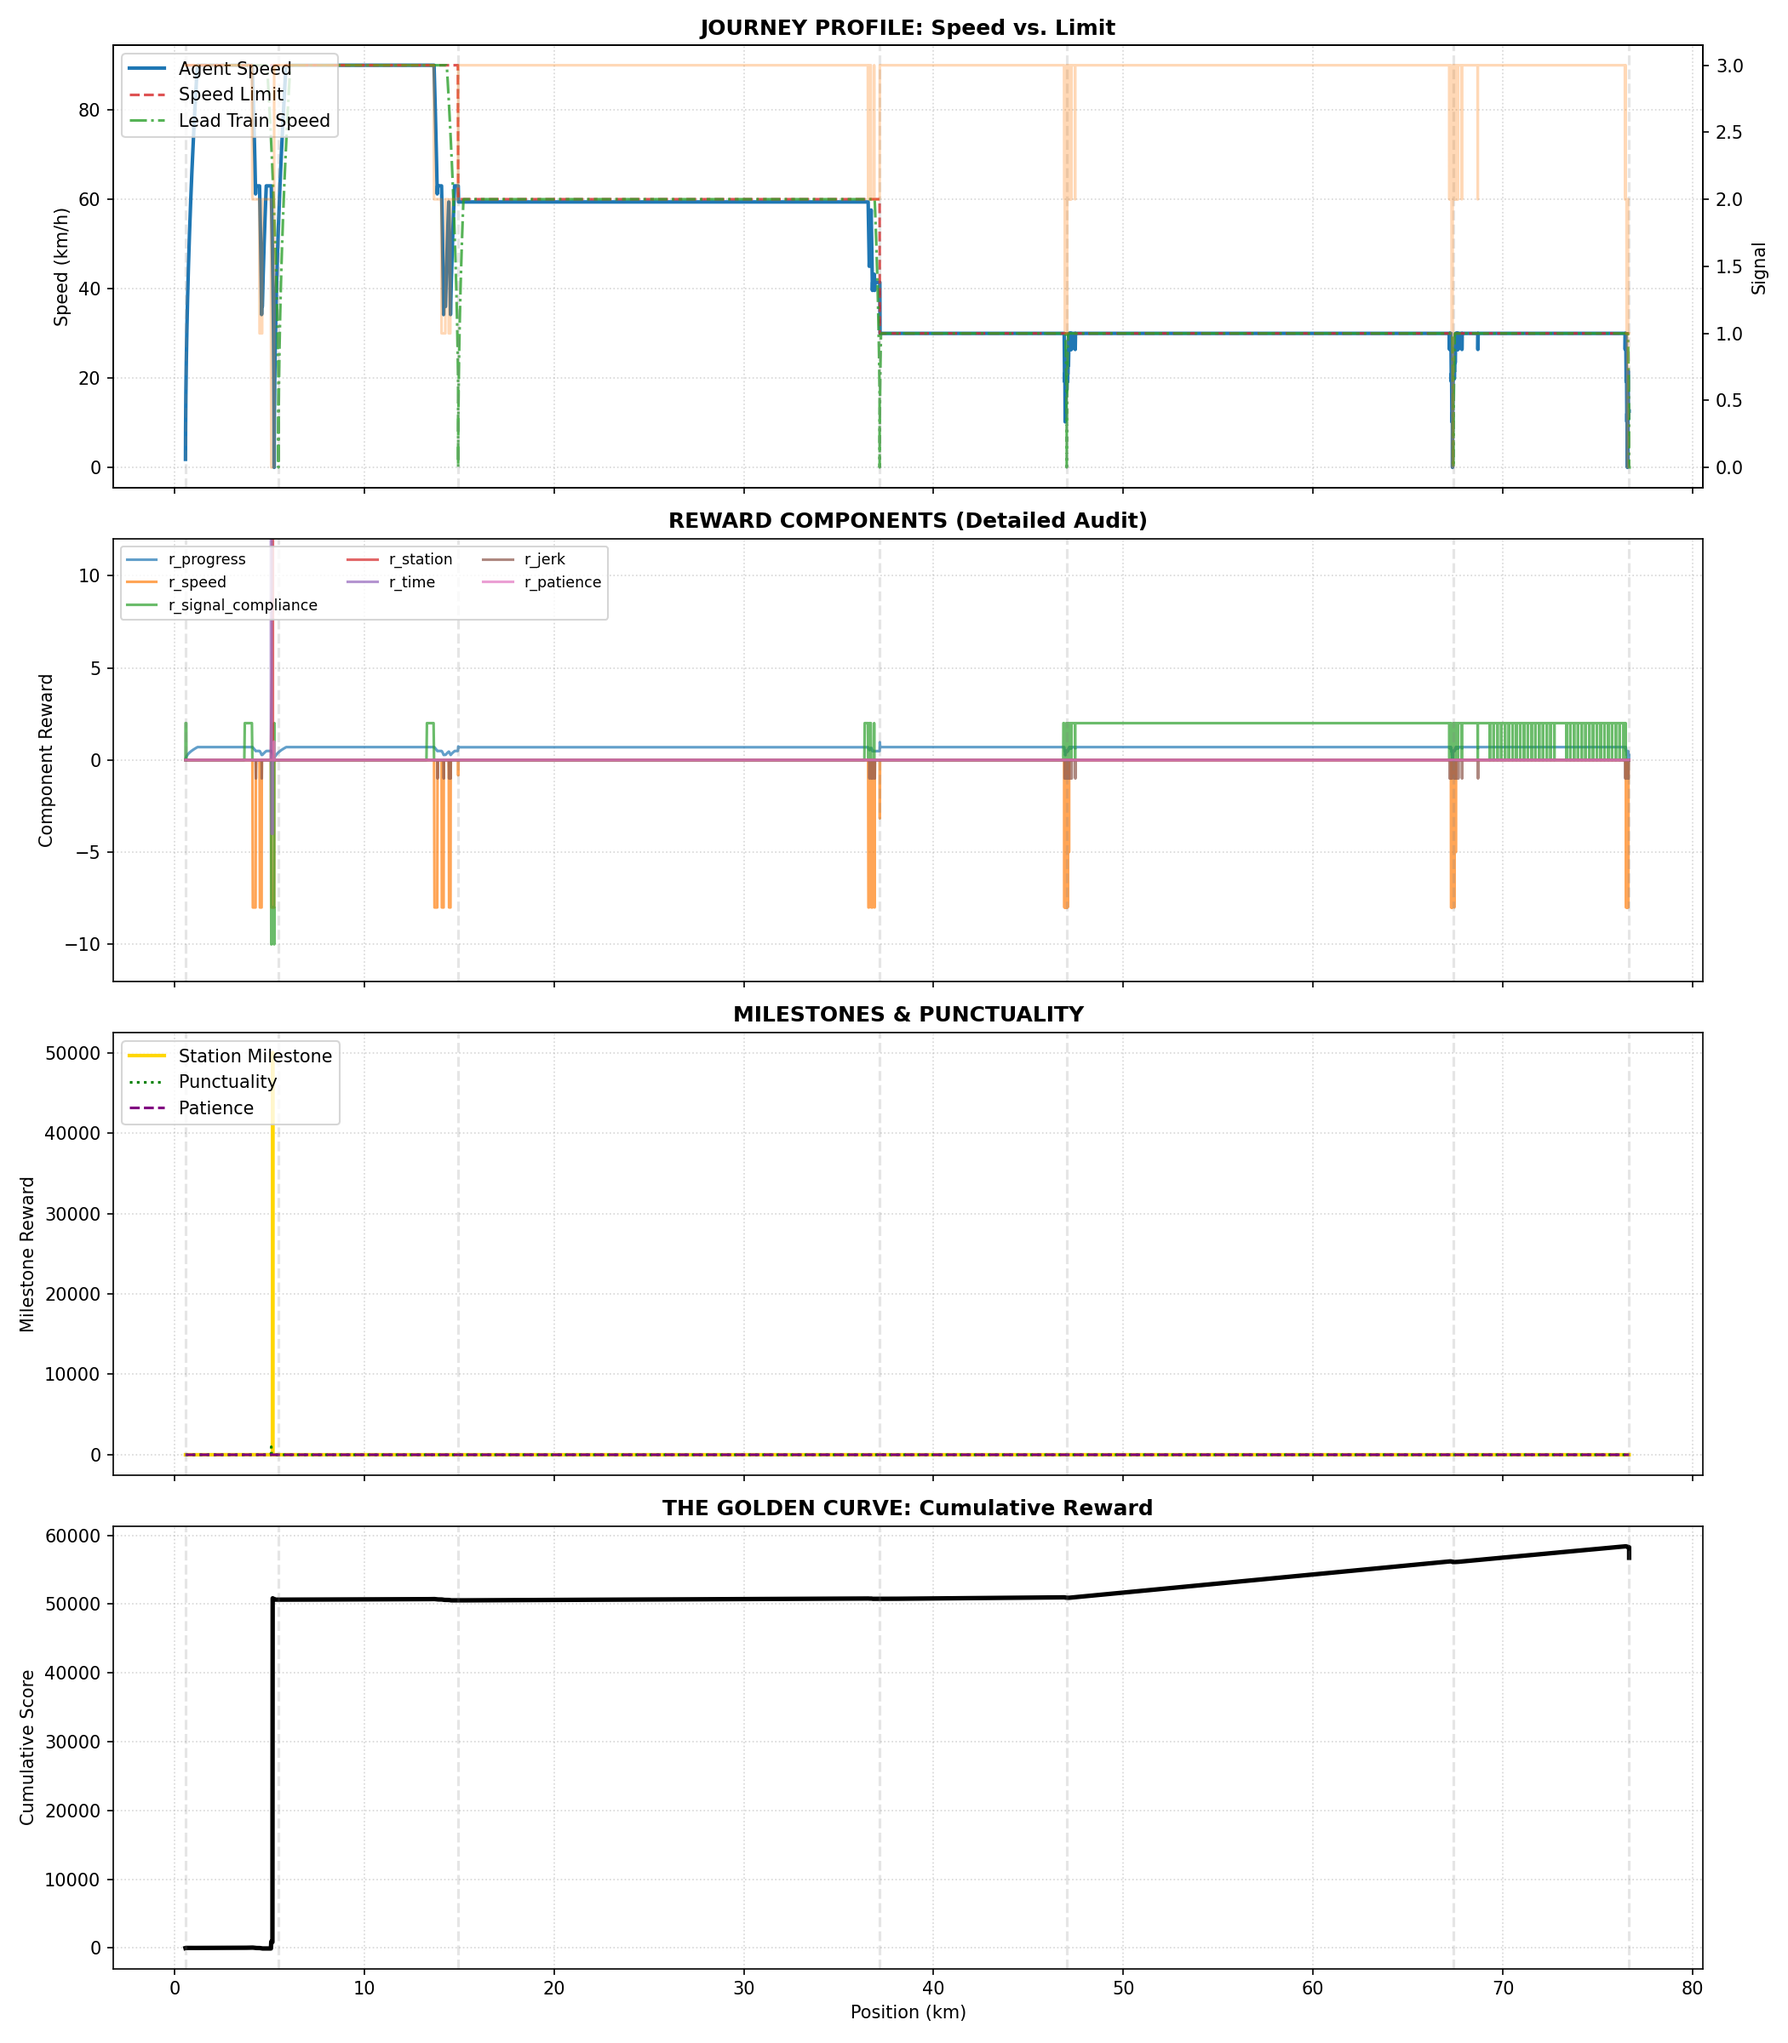
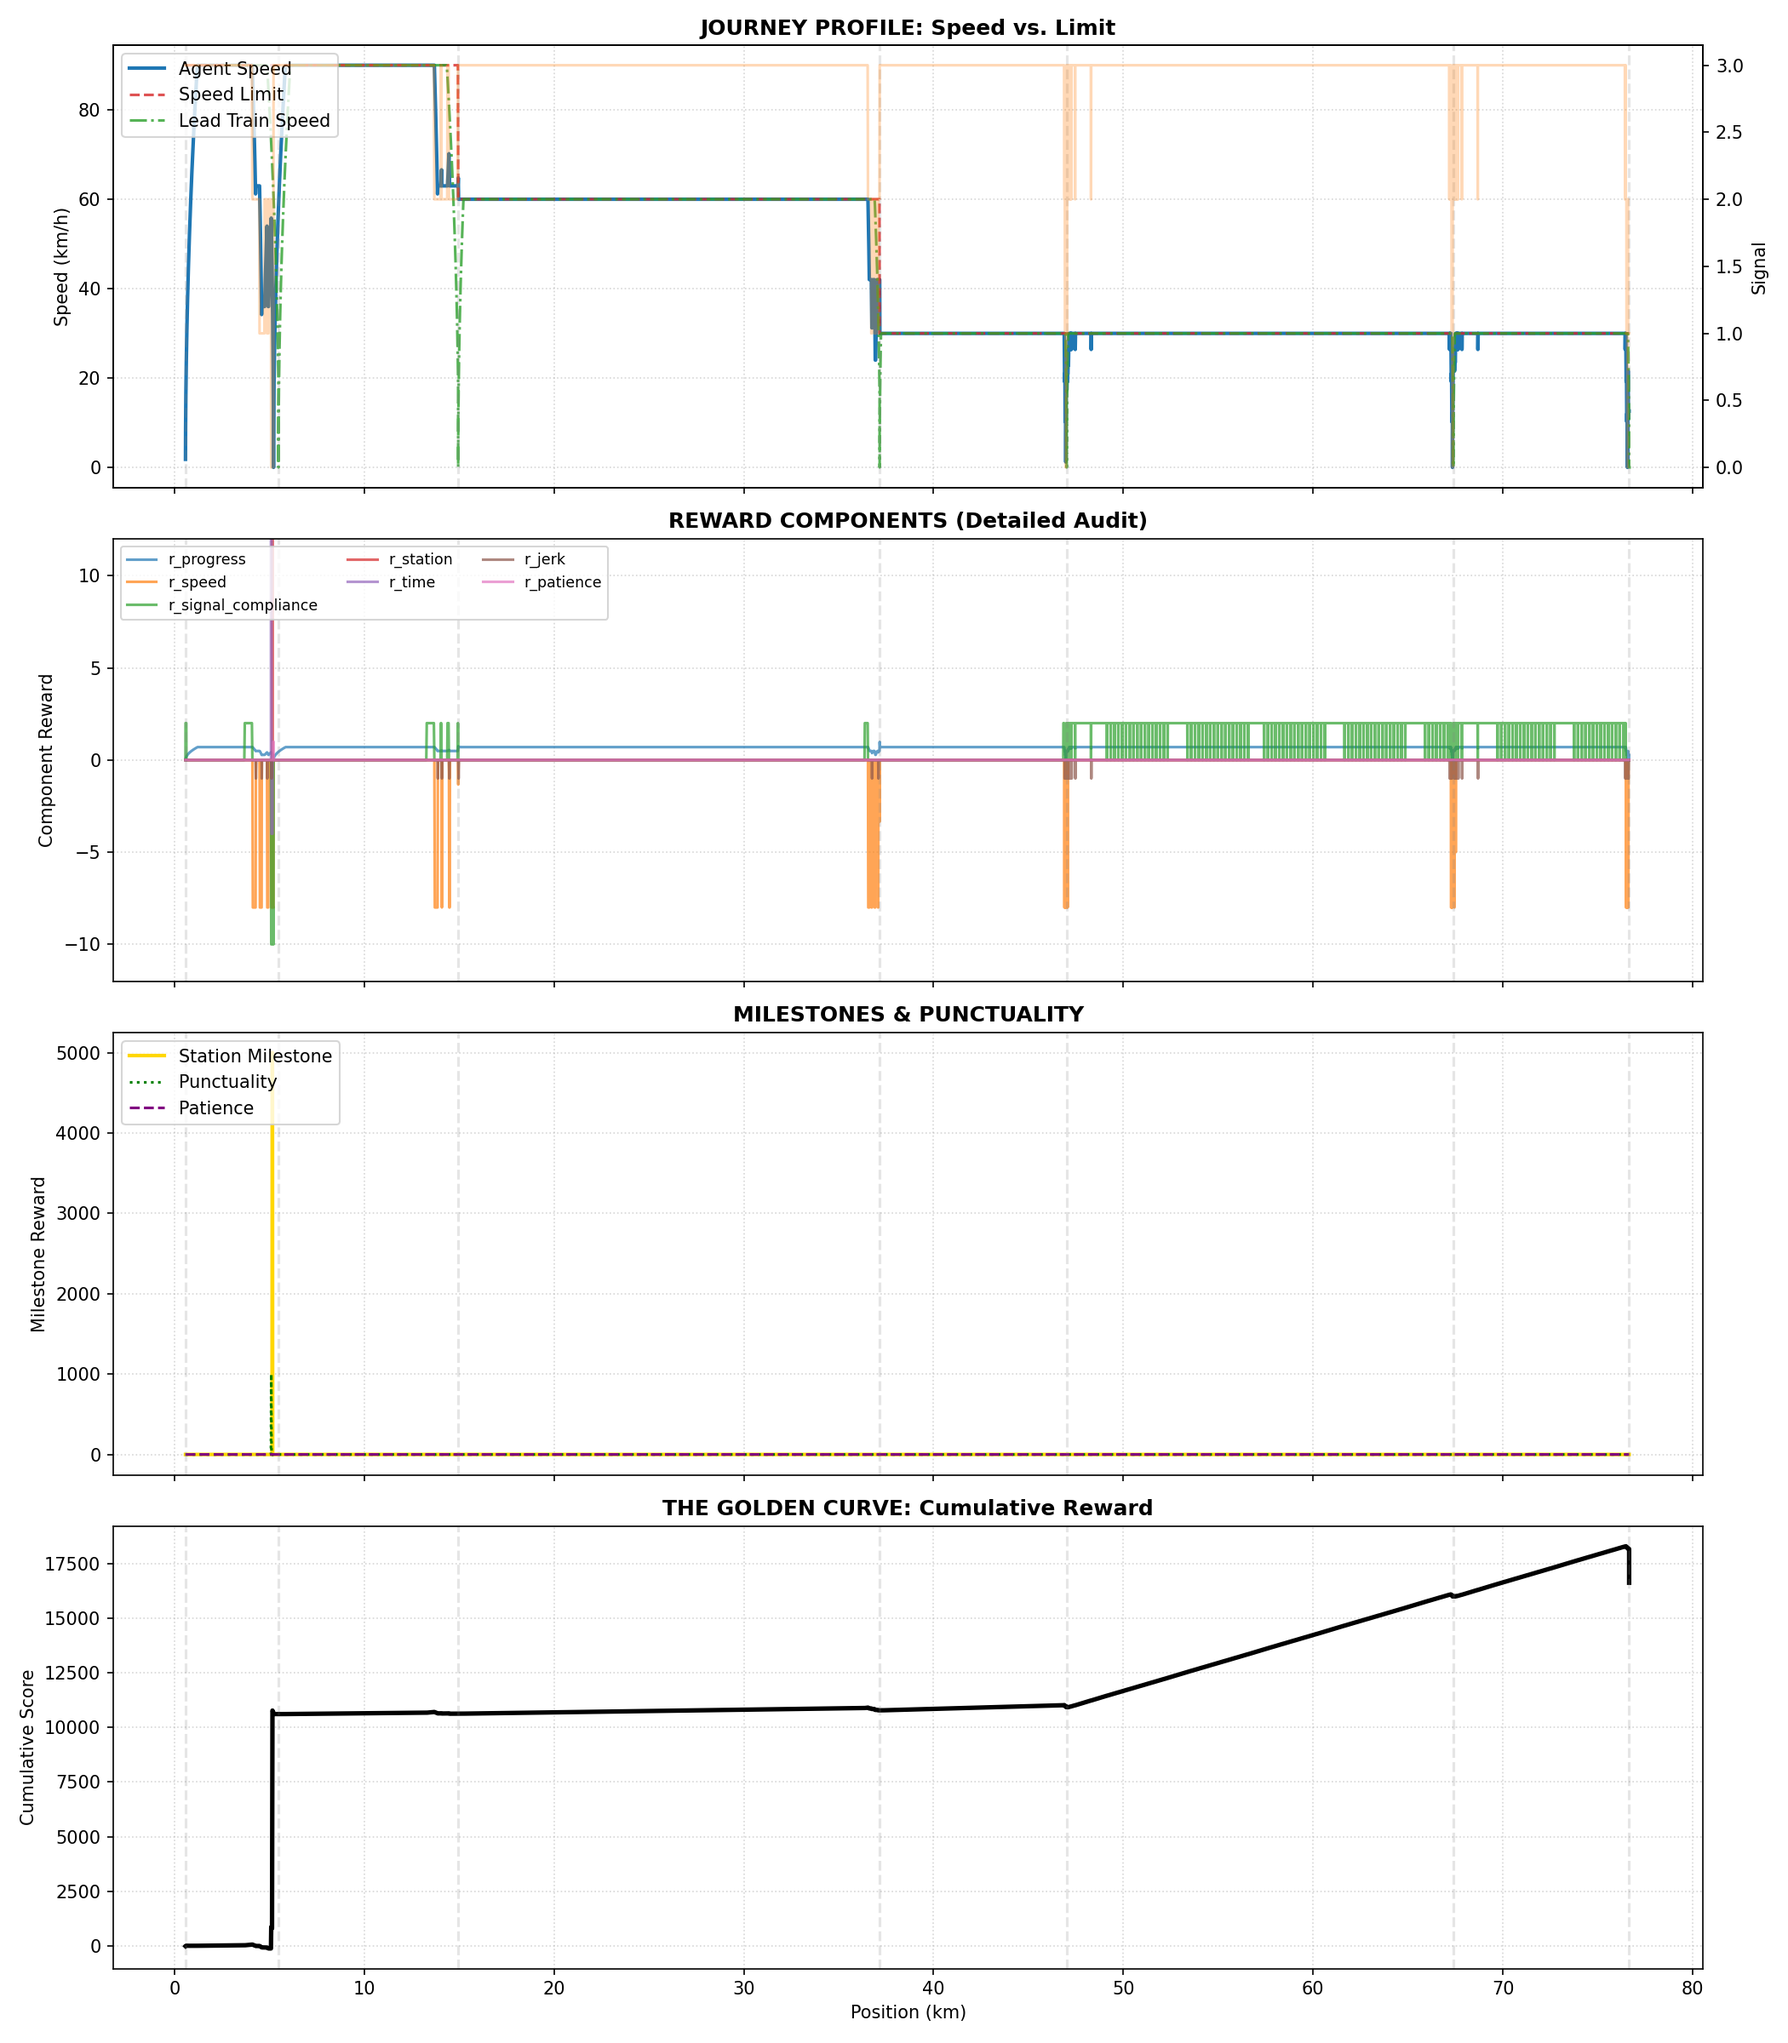
chore: update override log entries and scale station milestone rewards in reward function

diff --git a/reward/reward_function.py b/reward/reward_function.py
@@ -160,11 +160,11 @@ def compute_reward(state: TrainState, info: Dict[str, Any]) -> RewardOutput:
 
     # 7. Station Milestone Reward
     STATION_REWARDS = {
-        1: +2.0,   # Rabka-Zdrój
-        2: +3.0,   # Mszana Dolna
-        3: +4.0,   # Tymbark
-        4: +5.0,   # Limanowa
-        5: +7.0,   # Marcinkowice
+        1: +200.0,   # Rabka-Zdrój
+        2: +300.0,   # Mszana Dolna
+        3: +400.0,   # Tymbark
+        4: +500.0,   # Limanowa
+        5: +700.0,   # Marcinkowice
         6: +50000.0,  # Nowy Sącz (terminus — maximum reward)
     }
     if state.reached_new_station:
